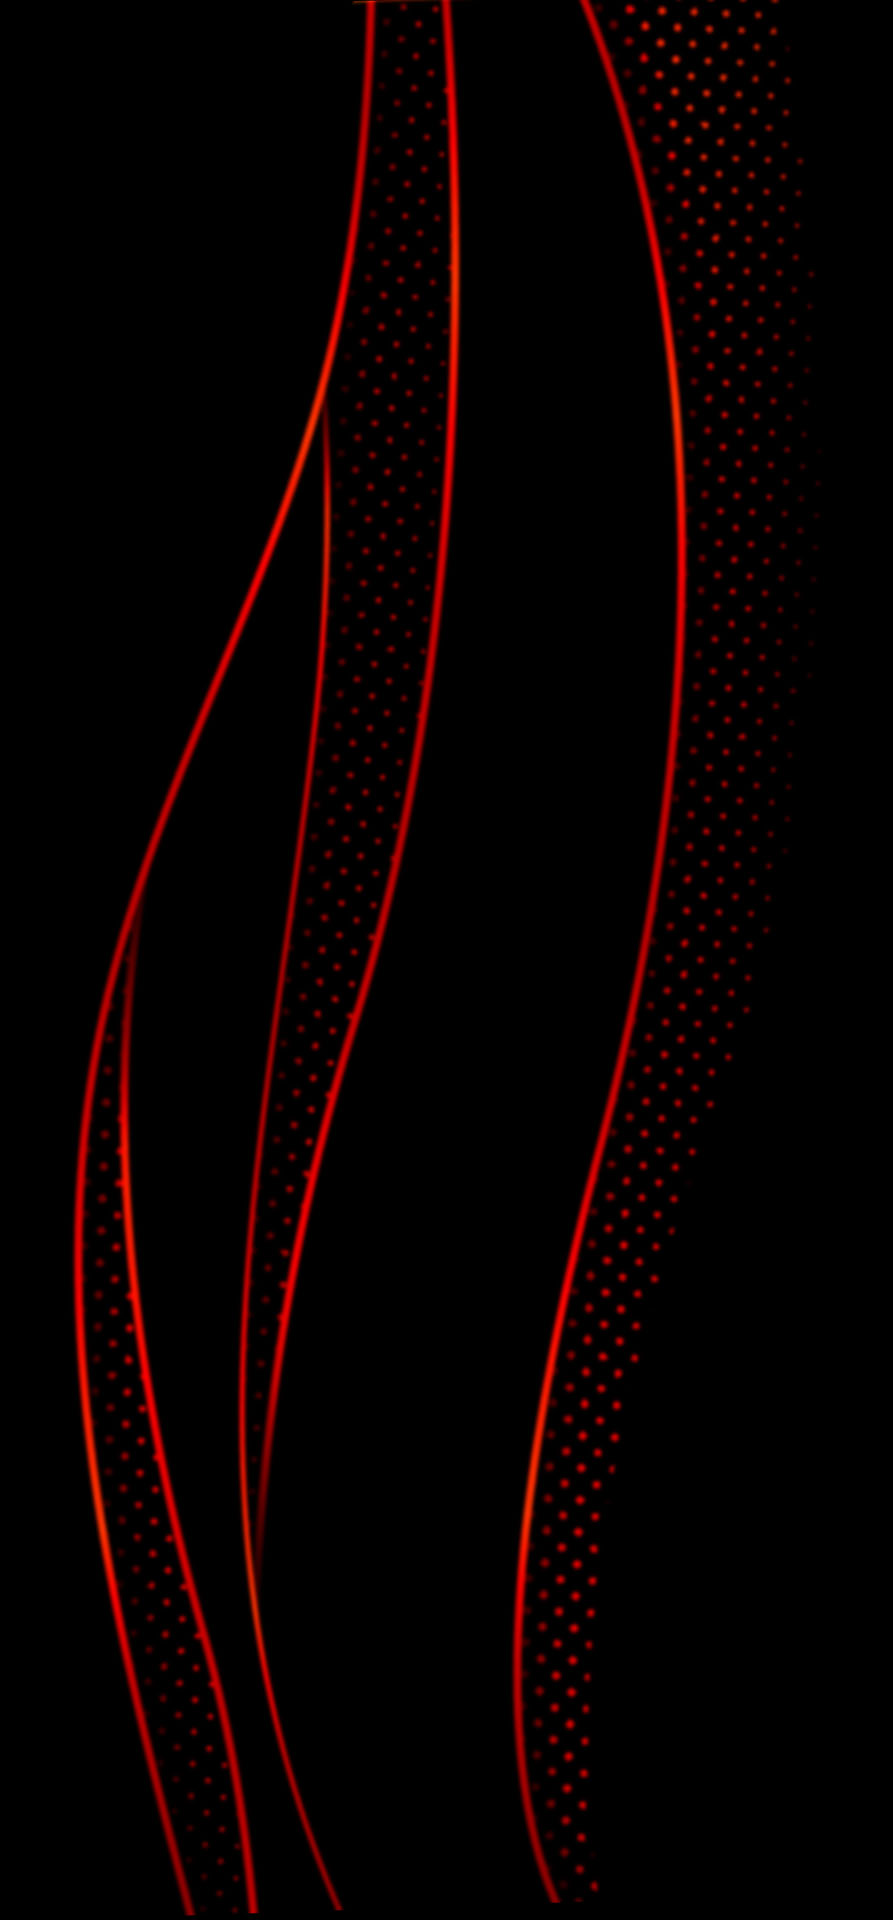
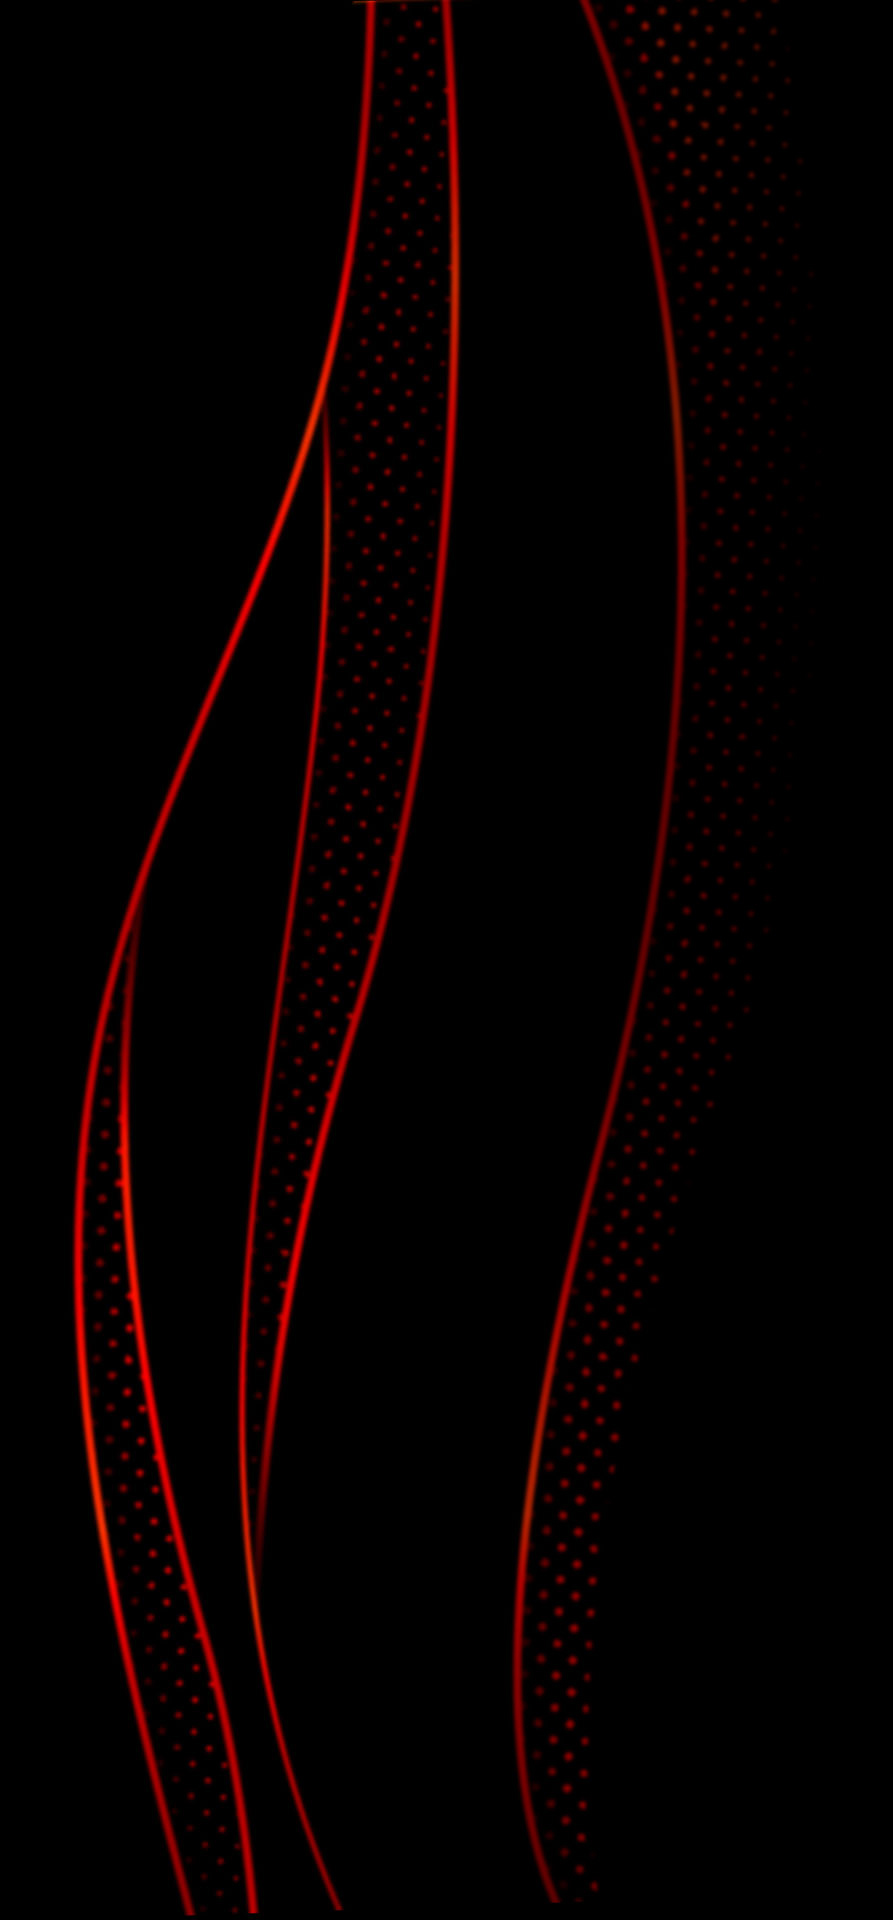
RWD

diff --git a/style/faq_style.css b/style/faq_style.css
@@ -6,10 +6,6 @@ body {
 	margin: 0;
     font-family: 'Montserrat', 'Noto Sans TC', sans-serif;
     background: black;
-    background-image: url("../image/redline.jpg");
-    background-size: auto 100vh;
-    background-repeat: no-repeat;
-    background-position-x:  -45px;
     color: white;
 }
 a { 
@@ -70,6 +66,17 @@ header {
 .on-this-page {
 	text-decoration: underline
 }
+#red-line {
+    z-index: -1;
+    position: fixed;
+    top:0px;
+    width: 100vw;
+    height: 100vh;
+    background-image: url("../image/redline.jpg");
+    background-size: auto 100vh;
+    background-repeat: no-repeat;
+    background-position-x:  -45px;
+}
 #faq-title {
     font-size: 70px;
     margin-top: 60px;
@@ -105,7 +112,7 @@ main input[name=faq-radios]{
     height: 66px;
     top: 11px;
     transform: translateX(-0.8px);
-    transition: top ease 0.3s;
+    transition: top, left ease 0.3s;
 }
 #fr-live:checked ~ #faq-menu #fm-sel{ top: 6px; }
 #fr-live:checked ~ #faq-menu #label-live{ color: white; }
@@ -229,3 +236,106 @@ main input[name=faq-radios]{
 #practicing-q3:checked ~ #practicing-qa3 { background: rgba(255,255,255,0.23); }
 #practicing-q3:checked ~ #practicing-qa3 .qa-answer { display: block; }
 #practicing-q3:checked ~ #practicing-qa3 .qa-question::after { transform: rotate(180deg); }
+
+@media (max-width: 670px) {
+    body{ 
+		overflow-x: hidden;
+	}
+	#header {
+		background: #160505;
+		height: 60px;
+	}
+	#mini-menu {
+		display: inherit;
+		width: 23px;
+		padding-right: 20px;
+	}
+	#header-nav {
+		display: block;
+		position: absolute;
+		width: 100vw;
+		transition: height ease 500ms;
+		top: 60px;
+		height: 0px;
+		overflow: hidden;
+		margin-top: -1px;
+	}
+	#header-nav li{
+		height: 50px;
+		line-height: 50px;
+		background: #262626;
+		margin: -1px 0px;
+	}
+	#header-nav li::after{
+		width: 0px;
+	}
+	#header-nav li:last-child{
+		box-shadow: 0px 3px 3px rgba(0,0,0,0.5);
+	}
+	#menu-toggle:checked+#header-nav {
+		height: 200px;
+	}
+	#top-logo {
+		width: 130px;
+		padding-left: 12px;
+    }
+    #red-line{
+        opacity: 0.4;
+    }
+    #faq-title {
+        font-size: 50px;
+        margin-bottom: 0px;
+    }
+    main{
+        grid-template-columns: unset;
+        grid-template-rows: 80px auto;
+        height: calc(100vh - 170px);
+    }
+    #faq-menu {
+        padding-left: 0px;
+        border-right: none;
+        display: grid;
+        grid-template-columns: 25% 25% 25% 25%;
+    }
+    #faq-menu li{
+        text-align: center;
+        padding-left: 0px;
+        font-size: 14px;
+    }
+    #fm-sel{
+        width: 25%;
+        height: 30px;
+        top: 20px;
+    }
+    #qaa {
+        overflow: unset;
+        padding-left: 0px;
+    }
+    #fr-live:checked ~ #faq-menu #fm-sel{ left: 0%; top: 23px;}
+    #fr-recording:checked ~ #faq-menu #fm-sel{ left: 25%; top: 23px;}
+    #fr-sharing:checked ~ #faq-menu #fm-sel{ left: 50%; top: 23px;}
+    #fr-practicing:checked ~ #faq-menu #fm-sel{ left: 75%; top: 23px;}
+
+    #fr-live:checked ~ #qaa #qa-live{ visibility: visible; left: 0px; }
+    #fr-recording:checked ~ #qaa #qa-recording{ visibility: visible; left: 0px; }
+    #fr-sharing:checked ~ #qaa #qa-sharing{ visibility: visible; left: 0px; }
+    #fr-practicing:checked ~ #qaa #qa-practicing{ visibility: visible; left: 0px; }
+    .qa-section {
+        width: 100%;
+    }
+    .qa-question {
+        font-size: 18px;
+    }
+    .qa-question::before{
+        height: 14px;
+        top: 18px;
+    }
+    .qa-answer {
+        font-size: 15px;
+    }
+}
+@media (max-width: 320px){
+    #faq-menu li{
+        font-size: 12px;
+    }
+}

diff --git a/faq.html b/faq.html
@@ -7,6 +7,7 @@
 	<link rel="stylesheet" href="style/faq_style.css">
 </head>
 <body>
+    <div id="red-line"></div>
 	<header id="header">
         <a href="index.html"><img id="top-logo" src="image/logo.svg" alt=""></a>
 		<label for="menu-toggle"><img id="mini-menu" src="image/icon/mini-menu.png" alt=""></label>
